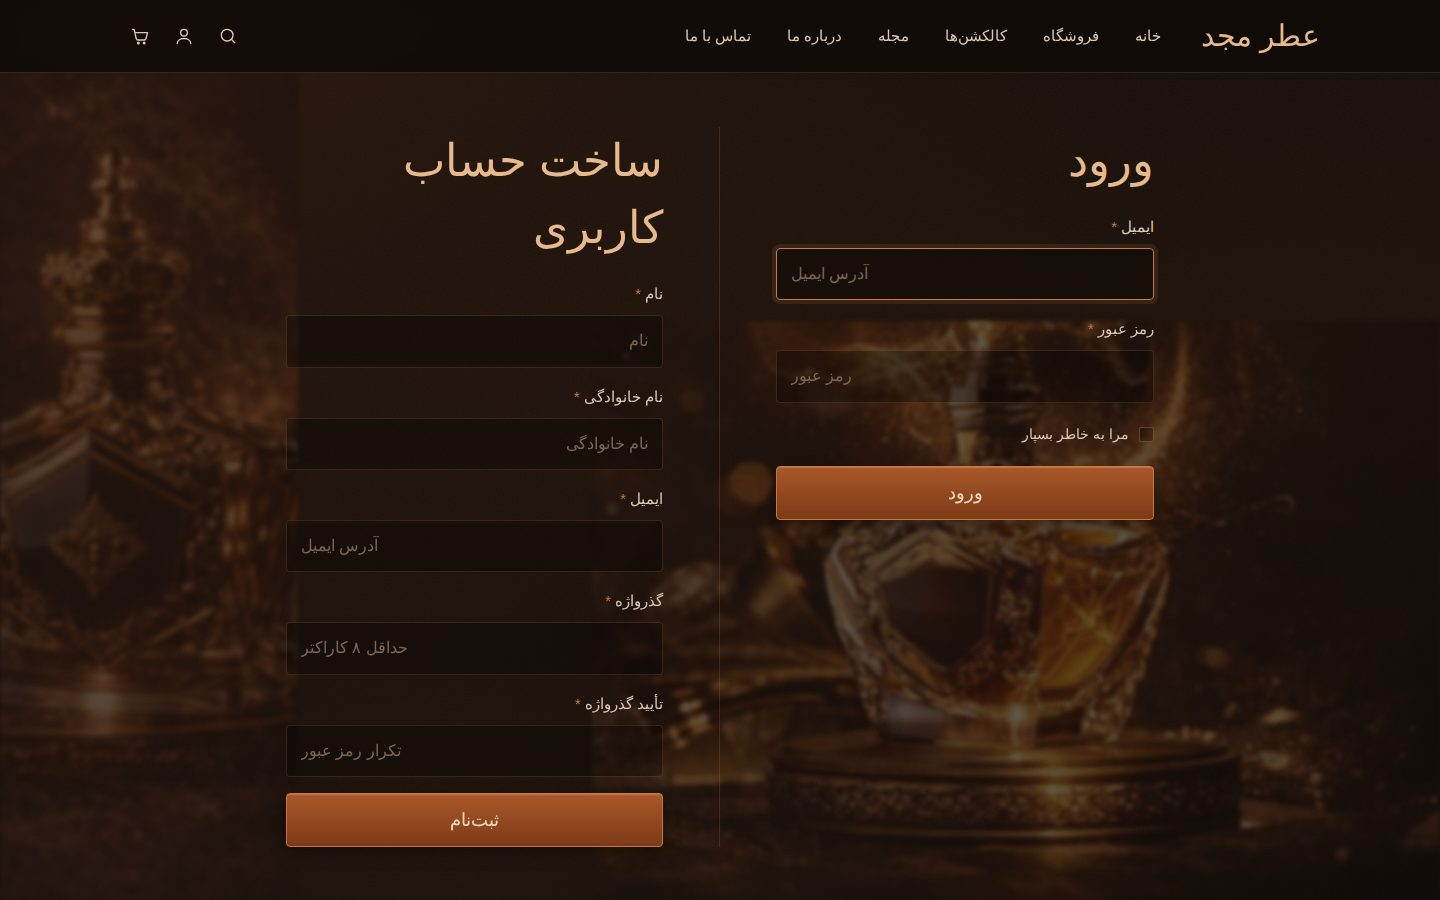
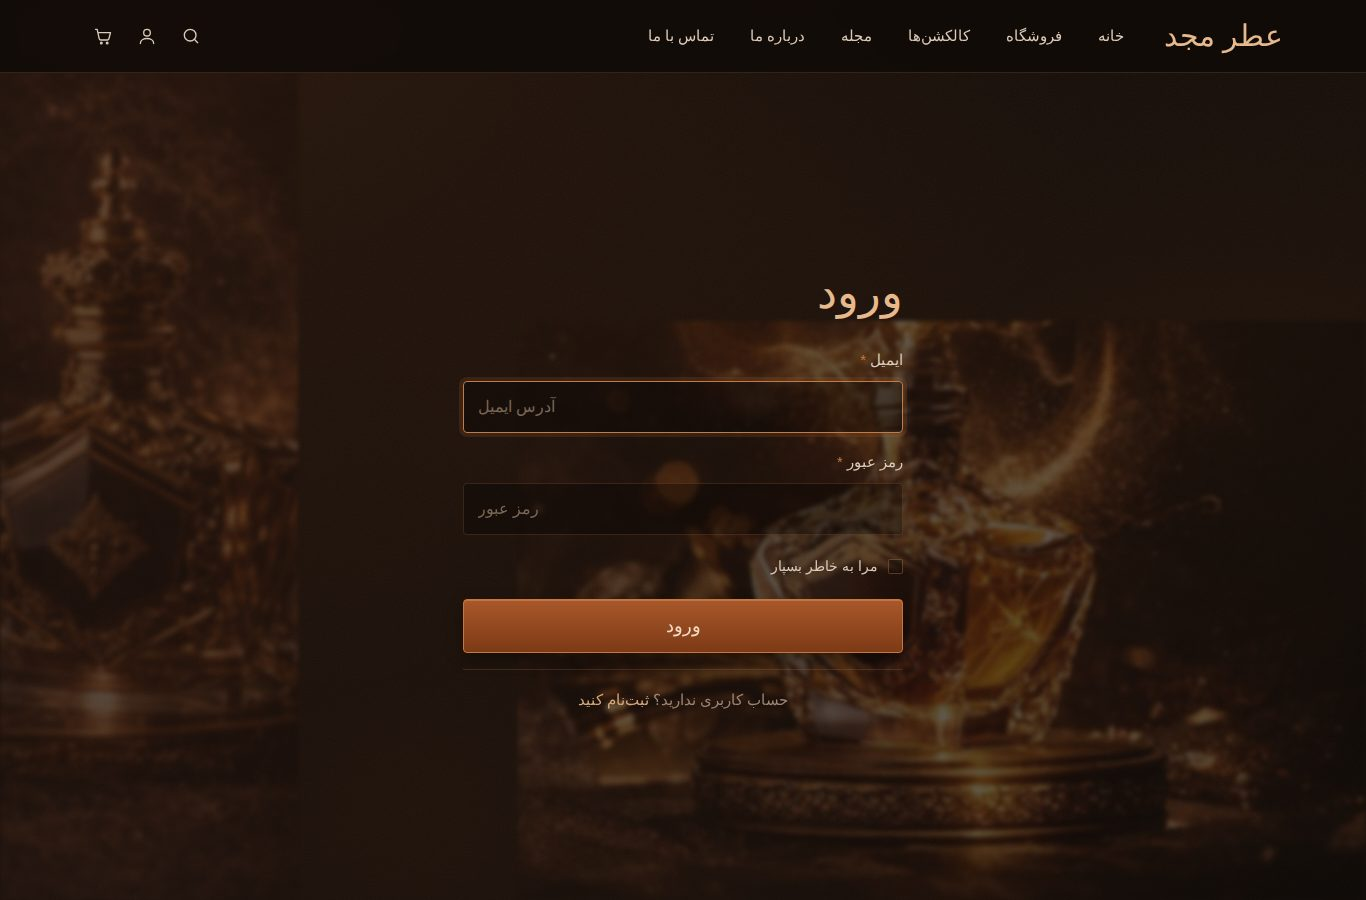
Separate login and sign-up pages
- /account/login/ shows only the login form; /account/register/ is its own
  page (GET + POST) with the sign-up form. Each links to the other and keeps
  a safe ?next= target.
- Tests for the split pages, next handling and signed-in redirect; E2E
  registers through the new page. Screenshots updated.

Claude-Session: https://claude.ai/code/session_014ezNcwANryytTR4x8vK6ui

diff --git a/themes/base/templates/accounts/login.html b/themes/base/templates/accounts/login.html
@@ -1,0 +1,23 @@
+{% extends "base.html" %}
+{% load seo static notifications %}
+{% block seo %}{% seo_head title="ورود" %}{% endblock %}
+{% block content %}
+<div class="relative grid min-h-[calc(100vh-72px)] place-items-center overflow-hidden py-12">
+  <div class="absolute inset-0 bg-no-repeat opacity-30 blur-[2px]" style="background-image:url('{% static 'img/auth-bg.jpg' %}'),url('{% static 'img/hero-shop.jpg' %}');background-position:left center,right bottom;background-size:auto 100%,auto 70%"></div>
+  <form class="relative grid w-[min(100%-32px,440px)] content-start gap-4" method="post" action="{% url 'accounts:login' %}" novalidate>
+    {% csrf_token %}
+    <input type="hidden" name="next" value="{{ next }}">
+    <h1 class="mb-1 text-[2rem] lg:text-[2.8rem]">ورود</h1>
+    {% if form.non_field_errors %}<p class="alert alert-err m-0">{{ form.non_field_errors|join:" " }}</p>{% endif %}
+    {% include "components/field.html" with field=form.username %}
+    {% include "components/field.html" with field=form.password %}
+    <label class="check">{{ form.remember }} {{ form.remember.label }}</label>
+    <button class="btn btn-lg w-full" type="submit">ورود</button>
+    {% otp_login_enabled as otp_on %}{% if otp_on %}
+    <a class="btn btn-ghost w-full" href="{% url 'notifications:otp_login' %}{% if next %}?next={{ next|urlencode }}{% endif %}">ورود با کد پیامکی</a>
+    {% endif %}
+    <p class="m-0 border-t border-line pt-4 text-center text-[.95rem] text-muted">حساب کاربری ندارید؟
+      <a href="{% url 'accounts:register' %}{% if next %}?next={{ next|urlencode }}{% endif %}">ثبتنام کنید</a></p>
+  </form>
+</div>
+{% endblock %}

diff --git a/themes/base/templates/accounts/register.html b/themes/base/templates/accounts/register.html
@@ -1,0 +1,24 @@
+{% extends "base.html" %}
+{% load seo static %}
+{% block seo %}{% seo_head title="ثبتنام" %}{% endblock %}
+{% block content %}
+<div class="relative grid min-h-[calc(100vh-72px)] place-items-center overflow-hidden py-12">
+  <div class="absolute inset-0 bg-no-repeat opacity-30 blur-[2px]" style="background-image:url('{% static 'img/auth-bg.jpg' %}'),url('{% static 'img/hero-shop.jpg' %}');background-position:left center,right bottom;background-size:auto 100%,auto 70%"></div>
+  <form class="relative grid w-[min(100%-32px,440px)] content-start gap-4" method="post" action="{% url 'accounts:register' %}" novalidate>
+    {% csrf_token %}
+    <input type="hidden" name="next" value="{{ next }}">
+    <h1 class="mb-1 text-[2rem] lg:text-[2.8rem]">ساخت حساب کاربری</h1>
+    {% if form.non_field_errors %}<p class="alert alert-err m-0">{{ form.non_field_errors|join:" " }}</p>{% endif %}
+    <div class="grid gap-4 sm:grid-cols-2">
+      {% include "components/field.html" with field=form.first_name %}
+      {% include "components/field.html" with field=form.last_name %}
+    </div>
+    {% include "components/field.html" with field=form.email %}
+    {% include "components/field.html" with field=form.password1 %}
+    {% include "components/field.html" with field=form.password2 %}
+    <button class="btn btn-lg w-full" type="submit">ثبتنام</button>
+    <p class="m-0 border-t border-line pt-4 text-center text-[.95rem] text-muted">قبلاً ثبتنام کردهاید؟
+      <a href="{% url 'accounts:login' %}{% if next %}?next={{ next|urlencode }}{% endif %}">وارد شوید</a></p>
+  </form>
+</div>
+{% endblock %}

diff --git a/apps/accounts/views.py b/apps/accounts/views.py
@@ -4,7 +4,7 @@ from django.contrib.auth.decorators import login_required
 from django.contrib.auth.views import LoginView
 from django.shortcuts import redirect, render
 from django.utils.http import url_has_allowed_host_and_scheme
-from django.views.decorators.http import require_POST
+from django.views.decorators.http import require_http_methods
 
 from .forms import LoginForm, RegisterForm
 from apps.core.audit import record
@@ -19,16 +19,11 @@ def _next_url(request, default="accounts:profile"):
 
 
 class AuthPageView(LoginView):
-    """صفحه ترکیبی ورود و ثبتنام."""
+    """صفحه ورود (ثبتنام صفحه جداگانه خودش را دارد)."""
 
-    template_name = "accounts/auth.html"
+    template_name = "accounts/login.html"
     authentication_form = LoginForm
     redirect_authenticated_user = True
-
-    def get_context_data(self, **kwargs):
-        ctx = super().get_context_data(**kwargs)
-        ctx.setdefault("register_form", RegisterForm())
-        return ctx
 
     def form_valid(self, form):
         if not form.cleaned_data.get("remember"):
@@ -38,10 +33,13 @@ class AuthPageView(LoginView):
 
 
 @ratelimit("register", "5/1h")
-@require_POST
+@require_http_methods(["GET", "POST"])
 def register(request):
     if request.user.is_authenticated:
-        return redirect("accounts:profile")
+        return redirect(_next_url(request))
+    nxt = _next_url(request, default="")
+    if request.method == "GET":
+        return render(request, "accounts/register.html", {"form": RegisterForm(), "next": nxt})
     form = RegisterForm(request.POST)
     if form.is_valid():
         user = form.save()
@@ -49,9 +47,7 @@ def register(request):
         login(request, user, backend="django.contrib.auth.backends.ModelBackend")
         messages.success(request, "حساب کاربری شما ساخته شد. به خانواده عطر مجد خوش آمدید!")
         return redirect(_next_url(request))
-    return render(request, "accounts/auth.html", {
-        "form": LoginForm(request), "register_form": form, "next": request.POST.get("next", ""),
-    }, status=422)
+    return render(request, "accounts/register.html", {"form": form, "next": nxt}, status=422)
 
 
 @login_required

diff --git a/apps/accounts/tests/test_auth.py b/apps/accounts/tests/test_auth.py
@@ -32,3 +32,27 @@ class AuthTests(ShopTestCase):
     def test_profile_requires_login(self):
         resp = self.client.get(reverse("accounts:profile"))
         self.assertRedirects(resp, reverse("accounts:login") + "?next=" + reverse("accounts:profile"))
+
+    def test_login_and_register_are_separate_pages(self):
+        login_page = self.client.get(reverse("accounts:login") + "?next=/cart/")
+        self.assertContains(login_page, 'name="username"')
+        self.assertNotContains(login_page, 'name="password1"')
+        self.assertContains(login_page, reverse("accounts:register") + "?next=/cart/")
+        register_page = self.client.get(reverse("accounts:register") + "?next=/cart/")
+        self.assertContains(register_page, 'name="password1"')
+        self.assertNotContains(register_page, 'name="username"')
+        self.assertContains(register_page, 'name="next" value="/cart/"')
+        self.assertContains(register_page, reverse("accounts:login") + "?next=/cart/")
+
+    def test_register_keeps_next_and_ignores_foreign_next(self):
+        data = {"first_name": "a", "last_name": "b", "password1": "Atr-Majd-2026!", "password2": "Atr-Majd-2026!"}
+        resp = self.client.post(reverse("accounts:register"), {**data, "email": "n1@b.ir", "next": "/cart/"})
+        self.assertRedirects(resp, "/cart/", fetch_redirect_response=False)
+        self.client.logout()
+        page = self.client.get(reverse("accounts:register") + "?next=https://evil.example/")
+        self.assertNotContains(page, "evil.example")
+
+    def test_register_page_redirects_signed_in_user(self):
+        User.objects.create_user("a@b.ir", "Atr-Majd-2026!")
+        self.client.login(username="a@b.ir", password="Atr-Majd-2026!")
+        self.assertRedirects(self.client.get(reverse("accounts:register")), reverse("accounts:profile"))

diff --git a/tests/e2e/test_storefront.py b/tests/e2e/test_storefront.py
@@ -82,6 +82,9 @@ def test_review_contact_and_blog_filters(site, page):
 
 def test_register_wishlist_and_search(site, page):
     page.goto(f"{site}/account/login/")
+    expect(page.locator("#id_first_name")).to_have_count(0)  # ورود و ثبتنام دو صفحه جدا هستند
+    page.click("text=ثبتنام کنید")
+    page.wait_for_url("**/account/register/")
     page.fill("#id_first_name", "مهسا")
     page.fill("#id_last_name", "احمدی")
     page.fill('form[action$="register/"] #id_email', "mahsa@example.com")

diff --git a/docs/screenshots.md b/docs/screenshots.md
@@ -12,7 +12,8 @@
 <tr><td align="center" valign="top"><img src="screenshots/collections.jpg" alt="کالکشنها"><br><sub>کالکشنها</sub></td><td align="center" valign="top"><img src="screenshots/collection-detail.jpg" alt="صفحه اختصاصی کالکشن"><br><sub>صفحه اختصاصی کالکشن</sub></td></tr>
 <tr><td align="center" valign="top"><img src="screenshots/blog.jpg" alt="مجله"><br><sub>مجله</sub></td><td align="center" valign="top"><img src="screenshots/blog-post.jpg" alt="مقاله"><br><sub>مقاله</sub></td></tr>
 <tr><td align="center" valign="top"><img src="screenshots/about.jpg" alt="درباره ما"><br><sub>درباره ما</sub></td><td align="center" valign="top"><img src="screenshots/contact.jpg" alt="تماس با ما"><br><sub>تماس با ما</sub></td></tr>
-<tr><td align="center" valign="top"><img src="screenshots/login.jpg" alt="ورود و ثبتنام"><br><sub>ورود و ثبتنام</sub></td><td align="center" valign="top"><img src="screenshots/404.jpg" alt="صفحه ۴۰۴ با جستجو"><br><sub>صفحه ۴۰۴ با جستجو</sub></td></tr>
+<tr><td align="center" valign="top"><img src="screenshots/login.jpg" alt="ورود"><br><sub>ورود</sub></td><td align="center" valign="top"><img src="screenshots/register.jpg" alt="ثبتنام (صفحه جدا)"><br><sub>ثبتنام (صفحه جدا)</sub></td></tr>
+<tr><td align="center" valign="top"><img src="screenshots/404.jpg" alt="صفحه ۴۰۴ با جستجو"><br><sub>صفحه ۴۰۴ با جستجو</sub></td><td></td></tr>
 </table>
 
 ## پوسته «استاندارد (Design System)»
